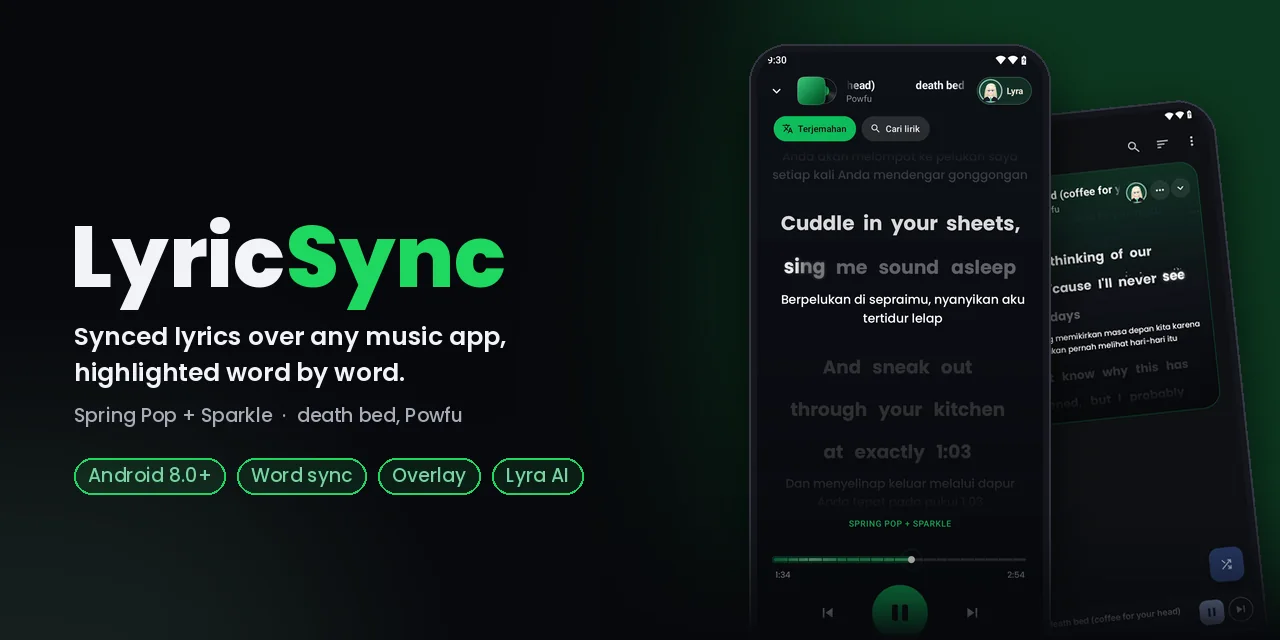
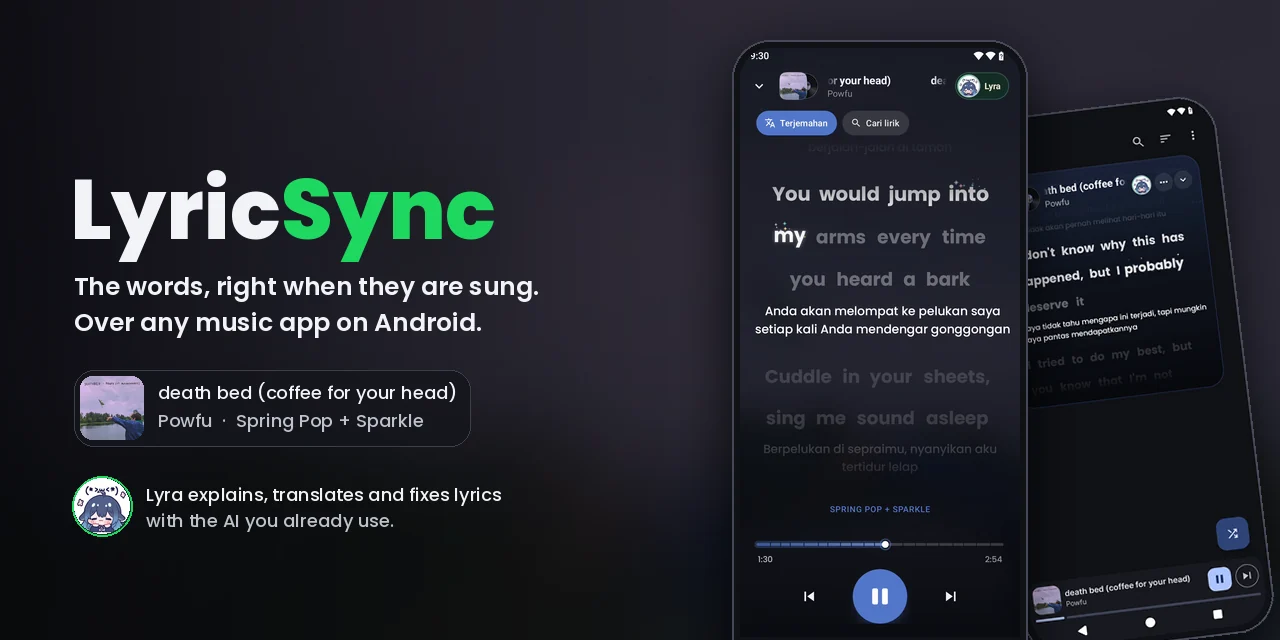
docs: rewrite the README, with the song's cover and DeepSeek-chan
The previous README was mostly green boxes. This one explains what the app is
for: why word-by-word timing matters in fast verses, the Latin reading and
translation for songs you can not read, the overlay over any app, and six
lyrics sources instead of one. Every claim was checked against the code.

New pictures, all from LyricSync 16.4.30 on Android 14 with the real cover of
death bed (Powfu) embedded in the track:
- hero for dark and light themes on a blurred copy of the cover, with the
  now-playing chip and DeepSeek-chan
- two animated previews of the rap verses (full screen, overlay), Spring Pop
  + Sparkle, Indonesian translation
- full screen with the cover, the overlay's style panel and the Combo Lab
  fusing Spring Sparkle (Legendary)

The SVG section headings and cards are gone; plain headings read better.
"Your data" now names every host the app talks to, Spotify's public search
included.

diff --git a/README.md b/README.md
@@ -2,170 +2,180 @@
   <picture>
     <source media="(prefers-color-scheme: light)" srcset=".github/readme/hero-light.webp">
     <source media="(prefers-color-scheme: dark)" srcset=".github/readme/hero-dark.webp">
-    <img alt="LyricSync" src=".github/readme/hero-dark.webp" width="860">
+    <img alt="LyricSync showing death bed by Powfu, word by word, over a music player" src=".github/readme/hero-dark.webp" width="860">
   </picture>
 </p>
 
-<h1 align="center">LyricSync</h1>
-<p align="center"><b>Synced lyrics floating over any music app on Android, highlighted word by word</b></p>
-
 <p align="center">
-  <a href="../../releases/latest"><img src="https://img.shields.io/github/v/release/Anniqa/LyricSync?color=1ed760" alt="release"></a>
-  <img src="https://img.shields.io/badge/Android-8.0%2B-7fcfa3" alt="Android 8.0+">
+  <a href="../../releases/latest"><img src="https://img.shields.io/github/v/release/Anniqa/LyricSync?color=1ed760&label=release" alt="Latest release"></a>
+  <img src="https://img.shields.io/badge/Android-8.0%2B-7fcfa3" alt="Android 8.0 or later">
   <a href="LICENSE"><img src="https://img.shields.io/badge/license-GPL--3.0-a9acb8" alt="GPL-3.0"></a>
-  <img src="https://img.shields.io/badge/styles-18%20motions%20%C3%97%2021%20effects-1ed760" alt="18 motions, 21 effects">
 </p>
 
-<p align="center">
-  LyricSync reads the song from the player's media notification (Spotify, YouTube Music and others),<br>
-  finds its lyrics and shows them in a movable overlay or full screen.
-</p>
+# LyricSync
+
+LyricSync puts the lyrics of whatever you are playing on top of your screen and lights them up word by word, in
+time with the music. It works with the player you already use. There is no account to make, nothing to import and
+no new music app to learn: start a song in Spotify, YouTube Music or any other player, and the words appear.
 
 <p align="center">
-  <a href="#install"><b>Install</b></a>
-  &nbsp;·&nbsp;
-  <a href="#preview"><b>Preview</b></a>
-  &nbsp;·&nbsp;
-  <a href="#features"><b>Features</b></a>
-  &nbsp;·&nbsp;
-  <a href="#lyrics-sources"><b>Lyrics sources</b></a>
-  &nbsp;·&nbsp;
-  <a href="#lyra-ai"><b>Lyra AI</b></a>
-  &nbsp;·&nbsp;
-  <a href="#build"><b>Build</b></a>
-</p>
-
-<br>
-
-<a name="preview"></a>
-<img src=".github/readme/headings/preview.svg" alt="Preview" width="480"><br><br>
-
-<p align="center">
-  <img src=".github/readme/preview-full.webp" alt="Full-screen lyrics during the rap of death bed, Spring Pop + Sparkle" width="300">
+  <img src=".github/readme/preview-full.webp" alt="Full-screen lyrics during the second rap verse of death bed" width="300">
   &nbsp;&nbsp;
-  <img src=".github/readme/preview-overlay.webp" alt="Overlay over the music player during the rap of death bed, Spring Pop + Sparkle" width="350">
+  <img src=".github/readme/preview-overlay.webp" alt="The floating overlay on top of the music player during the first rap verse" width="350">
 </p>
 
-<p align="center"><b>death bed</b> by Powfu, the rap verses. Motion <b>Spring Pop</b>, effect <b>Sparkle</b>, Indonesian translation under each line.</p>
-<p align="center">Left: full screen. Right: the overlay on top of the music player. Recorded on Android 14 with LyricSync 16.4.29.</p>
+<p align="center"><i>death bed</i> by Powfu, both rap verses, with the Spring Pop motion and the Sparkle effect.<br>
+Left: full screen. Right: the overlay floating over the player. Indonesian translation under each line.</p>
 
-<br><br>
+## Why LyricSync
 
-<a name="features"></a>
-<img src=".github/readme/headings/features.svg" alt="Features" width="480"><br><br>
+Most players show lyrics one line at a time, if they show them at all, and only inside their own app. That falls
+apart in the places where lyrics matter most:
+
+- **Fast verses.** In a rap like the one above, a whole line goes by in two or three seconds. A highlighted line
+  tells you roughly where the singer is. A highlighted word tells you exactly where.
+- **Songs in a language you do not read.** Japanese, Korean or Chinese lyrics get a Latin reading lined up with
+  each syllable, and a translation under each line, so you can sing along and understand it at the same time.
+- **Doing something else.** The overlay floats over any app: a game, a chat, the browser. You do not have to keep
+  the player open to follow the song.
+- **Lyrics that are wrong or missing.** Instead of one source, LyricSync asks six and keeps the best timing it finds.
+  When they are all wrong, you can paste your own, or ask Lyra to fix the timing for you.
+
+## What it does
+
+### Lyrics that follow the singer
+
+The song is read from your player's media session, the same thing your lock screen uses, so LyricSync knows the
+title, the artist, the cover and the exact playback position without touching the player. Lines are highlighted
+word by word, and syllable by syllable when the source has that timing. Background vocals get their own smaller
+line under the lead. During instrumental breaks, a row of dots counts down to the next line.
+
+Tap any line to jump the song there. Play, pause, skip and a seek bar are in the overlay and in full screen.
+
+### Two ways to read
 
 <p align="center">
-  <img src=".github/readme/cards/sync.svg" alt="Synced lyrics" width="32%">
+  <img src=".github/readme/full-screen.webp" alt="Full-screen lyrics with the album cover" width="230">
   &nbsp;
-  <img src=".github/readme/cards/overlay.svg" alt="Floating overlay" width="32%">
-  &nbsp;
-  <img src=".github/readme/cards/lyra.svg" alt="Lyra" width="32%">
+  <img src=".github/readme/appearance.webp" alt="The overlay over the player, with its style and size panel open" width="230">
 </p>
 
-- Word and syllable highlighting, with romaji, pinyin or romaja for non-Latin lyrics
-- Translation under each line (Google Translate or AI)
-- Motion and effect styles you can mix, plus a Combo Lab
-- Playback controls, seek bar and tap-a-line-to-jump
-- Lyra, an AI assistant that explains lyrics and can edit, re-time or translate them for you
-- English and Bahasa Indonesia
+**The overlay** is a small window you can drag anywhere and resize. It stays above other apps and gets out of the
+way when you collapse it. **Full screen** gives the lyrics the whole display, with the album cover spinning out of
+its sleeve and its colours tinting the background.
 
-<br><br>
+Both can show the original lyrics, a Latin reading for non-Latin scripts (romaji, pinyin, romaja) and a translation
+underneath, each toggled on its own. Translation uses Google Translate, or your AI provider if you set one up.
 
-<a name="styles"></a>
-<img src=".github/readme/headings/styles.svg" alt="Motion and effect" width="480"><br><br>
+### Make it yours
 
-Every lyric style is one **motion** (how a word moves when it is sung) combined with one **effect** (what is drawn
-on it). Pick both in **Appearance → Lyrics animation**, or try pairs in the **Combo Lab**.
+Every highlight is a **motion** (how a word moves when it is sung) combined with an **effect** (what is drawn on
+it). There are 18 motions and 21 effects:
 
-| | Styles |
+| | |
 |---|---|
-| **Motion** (18) | Spring Pop, Bubble, Wave, Pulse, Rise, Typewriter, Drop, Zoom, Swing, Scatter, Calm, Classic, Bounce Drop, Elastic Pop, Heartbeat, Spin Settle, Squash-Stretch, Scatter Pop |
-| **Effect** (21) | None, Neon Glow, Echo, Shimmer, Neon Flicker, Outline Pop, Blur Trail, Color Flash, Sparkle, Fireworks, Welding, Burning, Aurora, Meteor Shower, Ring Pulse, Hologram, Sakura, and four combinations: Supernova, Cosmic Sky, Inferno, Cyberpunk |
+| **Motion** | Spring Pop, Bubble, Wave, Pulse, Rise, Typewriter, Drop, Zoom, Swing, Scatter, Calm, Classic, Bounce Drop, Elastic Pop, Heartbeat, Spin Settle, Squash-Stretch, Scatter Pop |
+| **Effect** | None, Neon Glow, Echo, Shimmer, Neon Flicker, Outline Pop, Blur Trail, Color Flash, Sparkle, Fireworks, Welding, Burning, Aurora, Meteor Shower, Ring Pulse, Hologram, Sakura, Supernova, Cosmic Sky, Inferno, Cyberpunk |
 
-The preview above is **Spring Pop + Sparkle**: each word springs up as it is sung, and small glints pop along the
-sung part of the word, drift upward and fade.
+<img align="right" src=".github/readme/combo-lab.webp" alt="Combo Lab fusing Spring Pop and Sparkle into Spring Sparkle" width="230">
 
-<br><br>
+The **Combo Lab** turns picking a style into a small game. Choose a motion and an effect, press Fuse, and the pair
+becomes a named combination with a rarity, an element and a strength score, previewed on a sample lyric. Every
+combination you find goes into your ComboDex, which has 378 entries to collect. The one in the preview, Spring Pop
+with Sparkle, comes out as *Spring Sparkle*, rated Legendary.
 
-<a name="install"></a>
-<img src=".github/readme/headings/install.svg" alt="Install" width="480"><br><br>
+Five lyric fonts are built in (Montserrat, Poppins, Barlow, Lato and your system font), with an adjustable size.
 
-1. Download the APK from [Releases](../../releases) and install it.
-2. Grant **Notification Access** and **Display Over Apps**.
-3. Tap **Start Overlay** and play a song.
+<br clear="right">
 
-Requires Android 8.0 or later.
+### Lyra, the lyrics assistant
 
-<br><br>
+Lyra is an AI assistant that lives next to the lyrics, with DeepSeek-chan as her face. She can see the song that is
+playing and the lyrics on screen, and she can act on them, not just talk about them:
 
-<a name="lyrics-sources"></a>
-<img src=".github/readme/headings/lyrics.svg" alt="Lyrics sources" width="480"><br><br>
+- explain what a line or the whole song means, and search the web for interviews and background
+- translate the song, or write the Latin reading for each syllable
+- find other versions of the lyrics, or load lyrics you paste in (TTML, QRC, KRC, LRC or plain text)
+- fix wrong words or re-time lines, with every edit undoable
+- change the display or control the player when you ask
 
-LyricSync asks several sources and keeps the best match: word-by-word timing first, then line-synced, then plain
-text.
+Lyra uses an AI provider you choose. Nothing is built in and nothing is paid for on your behalf.
 
-| Source | Timing |
+## Lyrics sources
+
+LyricSync asks several sources and keeps the best result: word-by-word timing first, then line-synced, then plain
+text. Results are cached on the phone, so a song you have played before loads instantly and works offline.
+
+| Source | What it gives |
 |---|---|
-| Spicy Lyrics | Word by word (needs a free key, below) |
-| Better Lyrics | Apple Music TTML (syllables, background vocals, duets), QQ Music |
-| LyricsPlus | Apple Music, QQ, Musixmatch, Deezer |
-| Kugou | Word by word (KRC), strong on Asian and Indonesian music |
-| Netease | Word by word (YRC) or line-synced |
-| LRCLIB | Line-synced, open community lyrics |
+| Spicy Lyrics | Word-by-word timing. Needs a free key, see below. |
+| Better Lyrics | Apple Music lyrics with syllable timing, background vocals and duets; QQ Music as a fallback |
+| LyricsPlus | Apple Music, QQ Music, Musixmatch and Deezer timelines |
+| Kugou | Word-by-word, with a large catalogue of Asian and Indonesian music |
+| Netease | Word-by-word or line-synced |
+| LRCLIB | Open, community-made line-synced lyrics |
 
 <details>
-<summary><b>Lyrics key (recommended)</b></summary>
-
-Word-by-word lyrics from Spicy Lyrics need a free key:
+<summary><b>Adding a Spicy Lyrics key (recommended)</b></summary>
 
 1. Open [developers.spicylyrics.org](https://developers.spicylyrics.org/) and sign in.
 2. Create an app and copy its publishable key (`sl_pk_…`).
 3. In LyricSync, open **Syllable Lyrics API → Set key** and paste it.
 
-Without a key, lyrics still come from Better Lyrics, LyricsPlus, Kugou, Netease and LRCLIB.
+Without a key, everything still works; lyrics come from the other five sources.
 
 </details>
 
-<br><br>
+## Install
 
-<a name="lyra-ai"></a>
-<img src=".github/readme/headings/ai.svg" alt="Lyra AI" width="480"><br><br>
+1. Download the APK from the [latest release](../../releases/latest) and install it.
+2. Allow **Notification access**, so LyricSync can see what is playing.
+3. Allow **Display over other apps**, so the overlay can float on top.
+4. Tap **Start Overlay** and play a song.
 
-Lyra and AI translation need one AI provider, set in the app:
+Android 8.0 or later. The app is in English and Bahasa Indonesia.
 
-| Provider | Sign-in |
+## Setting up Lyra (optional)
+
+Lyra and AI translation need one AI provider, chosen in the app:
+
+| Provider | How you connect |
 |---|---|
-| Google Antigravity | Sign in with Google |
+| Google Antigravity | Sign in with your Google account |
 | ChatGPT (Codex) | Sign in with your ChatGPT account |
-| Any OpenAI-compatible API | Base URL and API key |
+| Any OpenAI-compatible API | A base URL and an API key |
 
-Web search for Lyra uses an [Exa](https://dashboard.exa.ai) API key.
+For Lyra's web search, add an [Exa](https://dashboard.exa.ai) API key.
 
-Keys stay on your device. None are included in the app or this repository.
+## Your data
 
-<br><br>
+LyricSync has no account, no analytics and no ads. It talks only to the lyrics sources above, to Spotify's public
+search (to match the song to the right track before asking for lyrics), to Google Translate when you turn translation
+on, and to the AI provider you set up. Keys and sign-ins stay on your phone; none are included in the app or in this
+repository.
 
-<a name="build"></a>
-<img src=".github/readme/headings/build.svg" alt="Build" width="480"><br><br>
+## Building from source
 
 ```sh
 ./gradlew testDebugUnitTest lintDebug assembleDebug
 ```
 
-To build in a Spicy Lyrics key, put `spicy.client.key=sl_pk_…` in `local.properties`, or set the `SPICY_CLIENT_KEY`
-environment variable. On GitHub Actions, add it as a repository secret.
+To build a Spicy Lyrics key into the app, put `spicy.client.key=sl_pk_…` in `local.properties` or set the
+`SPICY_CLIENT_KEY` environment variable (a repository secret on GitHub Actions).
 
-GitHub Actions tests and builds every push. A `v*` tag publishes a release APK.
+GitHub Actions tests and builds every push. Pushing a `v*` tag builds the minified release APK and publishes it on
+the Releases page. The repository variable `RUNNER` can point the jobs at a self-hosted runner label when GitHub's
+own runners are unavailable.
 
-<br><br>
+## License and credits
 
-<a name="license"></a>
-<img src=".github/readme/headings/license.svg" alt="License" width="480"><br><br>
+LyricSync is free software under the [GPL-3.0](LICENSE). It is not affiliated with Spotify, YouTube, Apple, or any
+lyrics provider.
 
-[GPL-3.0](LICENSE). LyricSync is not affiliated with Spotify or with any lyrics provider.
 Lyra's face uses DeepSeek-chan chibi stickers from the community archive
-[lmy414/ai-girl-stickers](https://github.com/lmy414/ai-girl-stickers), marked CC0 by their submitters. DeepSeek-chan is a
-fan character, not an official DeepSeek mascot, and LyricSync is not affiliated with DeepSeek. To have an image credited or
-removed, open an issue.
-The song in the preview, *death bed (coffee for your head)*, belongs to Powfu; it is shown only to demonstrate the
-lyric display.
+[lmy414/ai-girl-stickers](https://github.com/lmy414/ai-girl-stickers), marked CC0 by their submitters.
+DeepSeek-chan is a fan character, not an official DeepSeek mascot, and LyricSync is not affiliated with DeepSeek.
+To have an image credited or removed, open an issue.
+
+The song in the previews, *death bed (coffee for your head)* by Powfu feat. beabadoobee, and its cover art belong to
+their owners. They appear only to show how lyrics are displayed.
